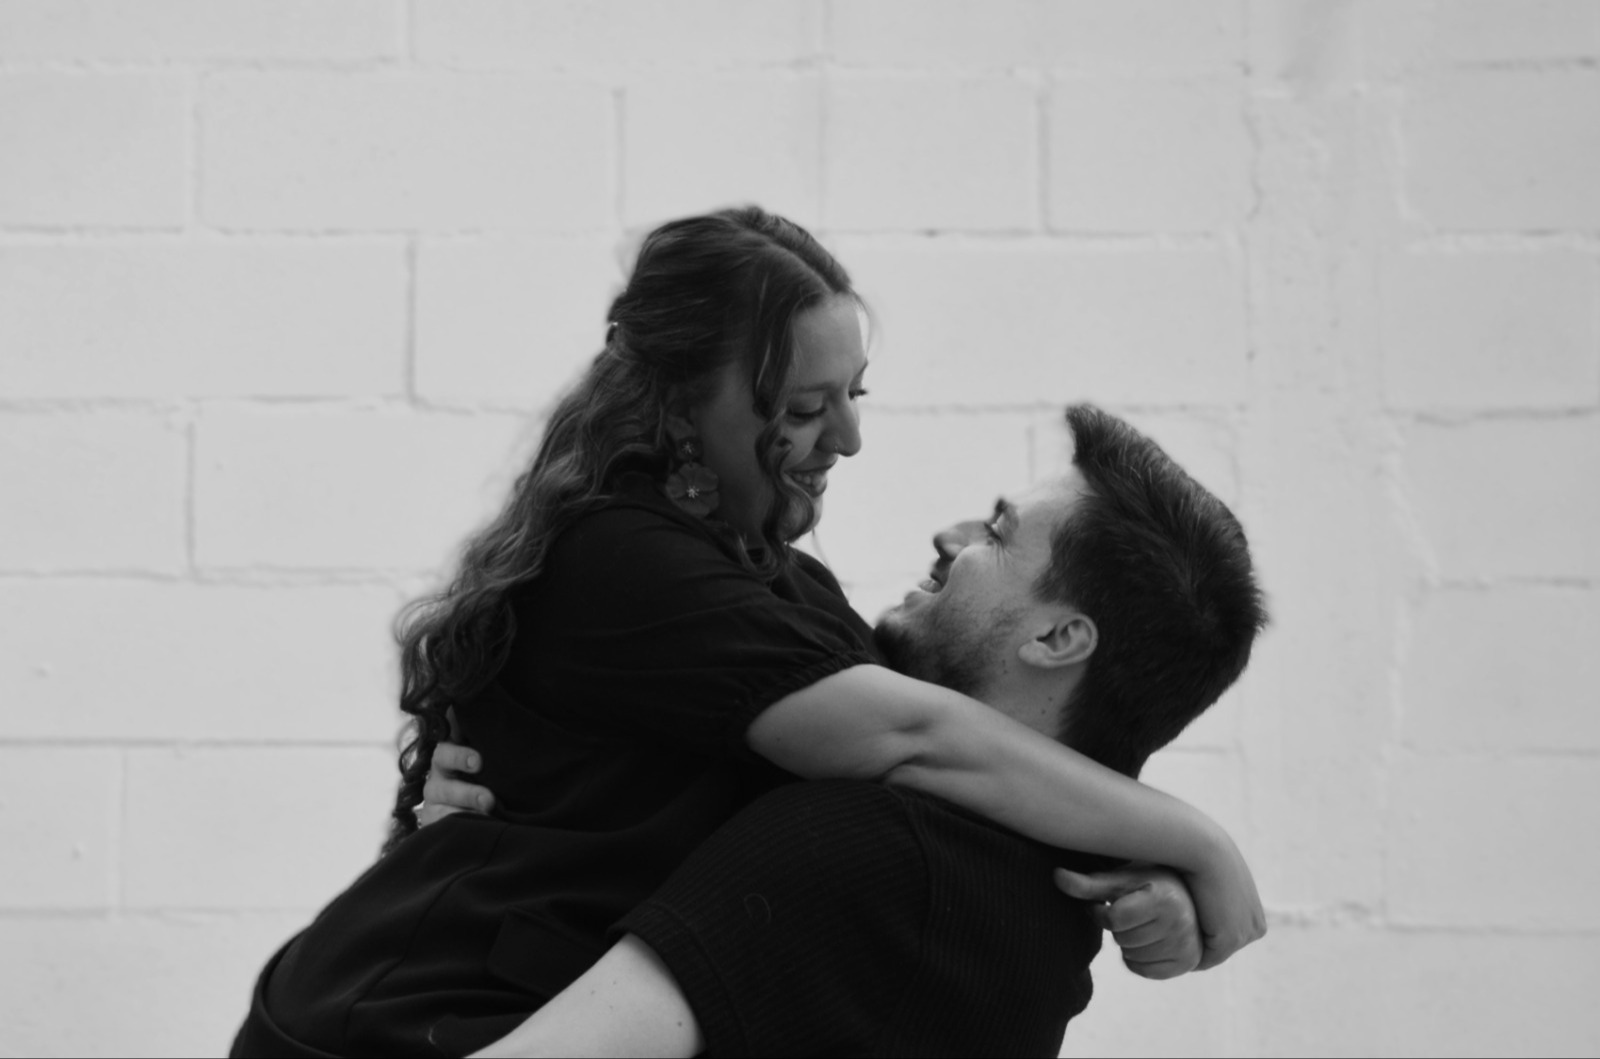
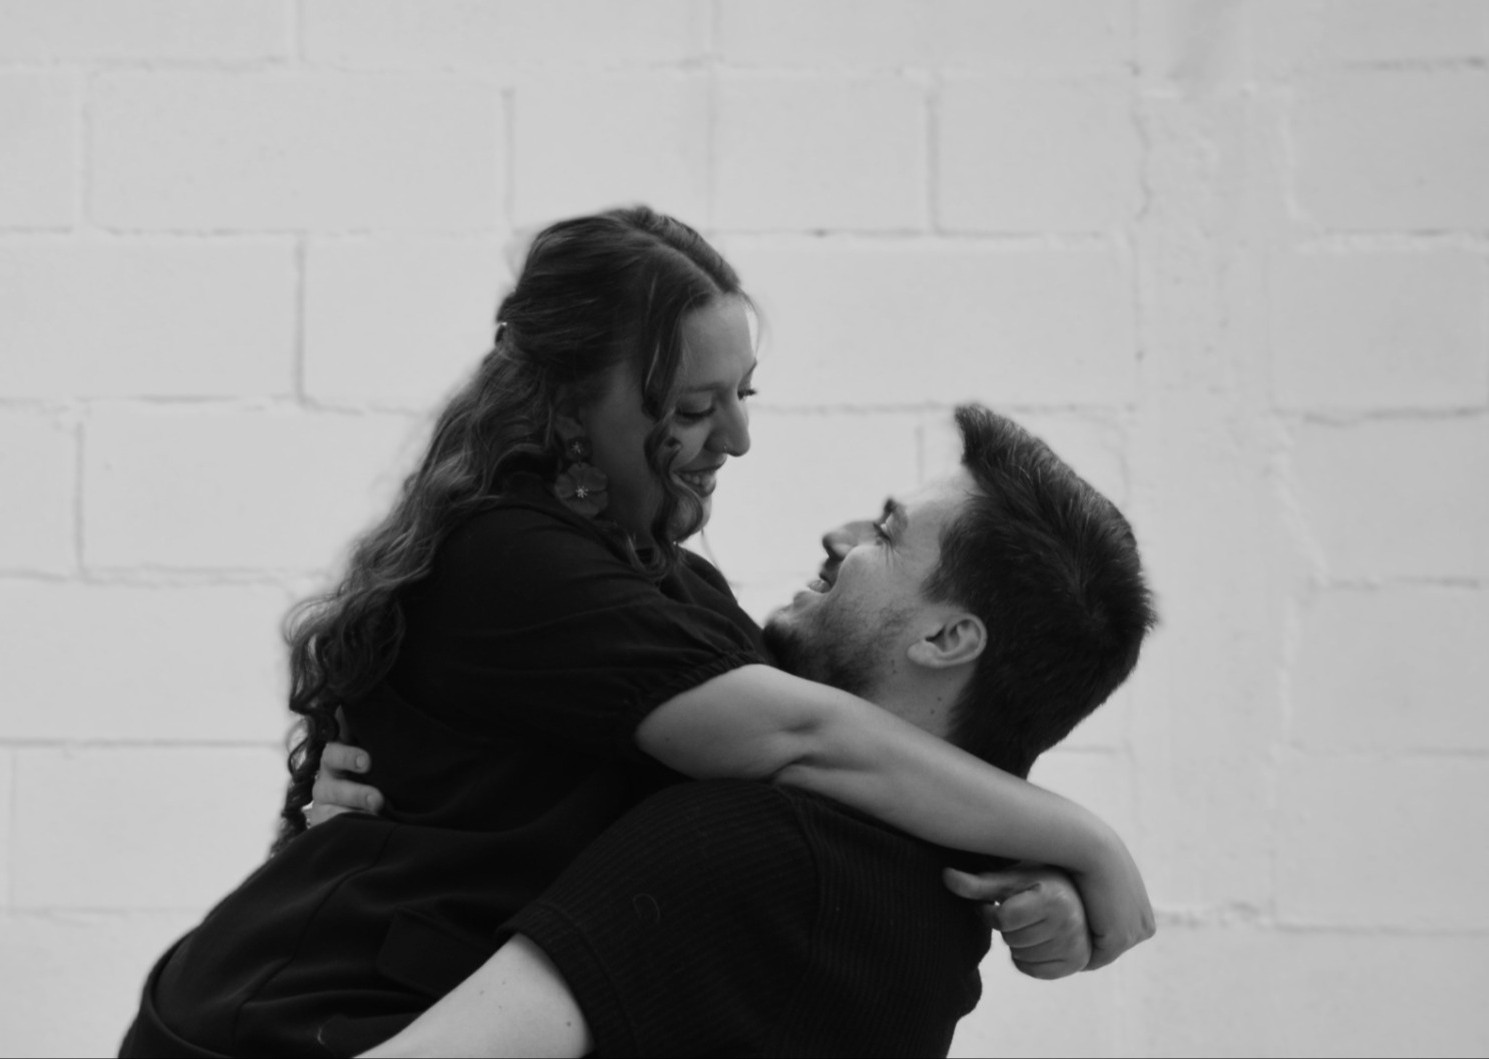
Mas cosas

Changed region(s): [[0.0618, 0.187, 0.8032, 1.0], [0.2163, 0.8725, 0.4634, 1.0]]

diff --git a/index.html b/index.html
@@ -10,7 +10,6 @@
 
     <header class="hero">
         <div class="hero-content">
-            <p class="subtitle">¡Nos casamos!</p>
             <h1>INÉS ❤ JAIME</h1>
             <p class="date">SÁBADO, 11 DE SEPTIEMBRE DE 2027</p>
             <a href="#confirmacion" class="button">Confirmar asistencia</a>
@@ -18,15 +17,16 @@
     </header>
 
     <main>
-        <section class="section">
-            <h2>Nos casamos</h2>
+        <!-- ✅ AÑADIDO style="padding-bottom: 0;" para quitar el hueco de abajo -->
+        <section class="section" style="padding-bottom: 0;">
+            <h2>NOS CASAMOS</h2>
             <p>Estamos muy felices de compartir este día tan especial con vosotros.</p>
             <p>Esperamos poder celebrar nuestra boda junto a las personas que más queremos.</p>
         </section>
 
         <!-- NUEVA SECCIÓN DE LUGAR CON MAPA -->
         <section class="section location-section">
-            <h2>Lugar</h2>
+            <h2>LUGAR</h2>
             <p>La ceremonia y la celebración tendrán lugar en:</p>
             <p style="font-size: 1.2rem; font-weight: bold; margin-bottom: 20px;">
                 La Antigua Harinera de Caspe<br>
@@ -47,8 +47,8 @@
         </section>
 
         <section id="confirmacion" class="section confirmation">
-            <h2>Confirmación de asistencia</h2>
-            <p>Por favor, completa este formulario antes de finales de noviembre.</p>
+            <h2>CONFIRMACIÓN DE ASISTENCIA</h2>
+            <p>Por favor, completa este formulario antes de diciembre.</p>
 
             <form id="wedding-form">
                 
@@ -211,7 +211,7 @@
                 <!-- 6. CANCIÓN FAVORITA -->
                 <div class="form-group" style="margin-top: 40px; border-top: 1px solid #ddd; padding-top: 20px;">
                     <h3>🎵 Música</h3>
-                    <label for="cancionFavorita">¿Cuál es tu canción favorita? (La pondremos en la fiesta)</label>
+                    <label for="cancionFavorita">¿Qué canción no puede faltar?</label>
                     <input type="text" id="cancionFavorita" name="cancionFavorita" placeholder="Artista - Título de la canción">
                 </div>
 
@@ -227,7 +227,7 @@
     </div>
 
     <footer>
-        <p>Inés & Jaime · 2027</p>
+        <p>Inés ❤ Jaime · 2027</p>
     </footer>
 
     <!-- Lógica de mostrar/ocultar campos -->
